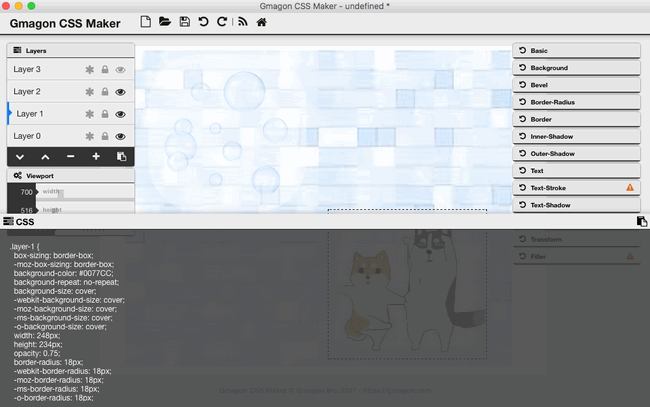
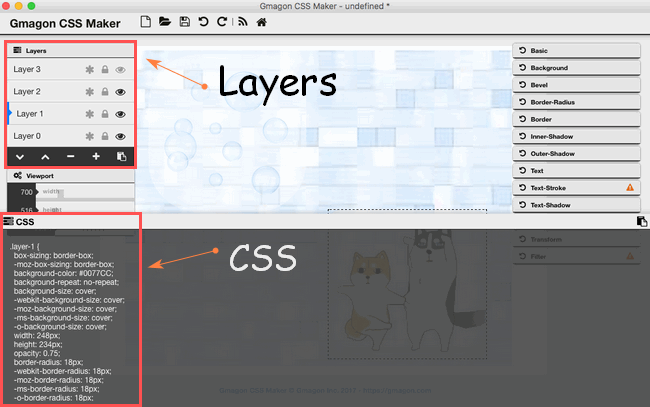
update

diff --git a/source/guide/gmagoncssmaker/tutorial/multi-layer.md b/source/guide/gmagoncssmaker/tutorial/multi-layer.md
@@ -1,10 +1,27 @@
 layout: guide
 title: CSS-Multi-layers 
-keywords: multilayer css, css layers, css multiple backgrounds, css layered backgrounds, css layer styles, css layer elements, css layer effects, css layer on top of another, css multi layer menu, css layer tutorial, css background tutorial
+keywords: multilayer css, css layers, css multiple backgrounds, css layered backgrounds, css layer styles, css layer elements, css layer effects, css layer on top of another, css multi layer menu, css layer tutorial, css background tutorial, 	add viewport css
 description: This CSS multi-layer elementary tutorial dedicate to helping beginners quickly to specify multiple background images for box elements using CSS on Mac. 
 ---
-In this tutorial, we will concentrate on adding styling text with CSS code-one of the most common things you'll do with CSS. With CSS, it is possible to work with layers: pieces of HTML that are placed on top of the regular page with pixel precision. With CSS3, you can apply multiple backgrounds to elements. These are layered atop one another with the first background you provide on top and the last background listed in the back. Only the last background can include a background color.
+In this tutorial, we will concentrate on adding multiple layers or backgrounds with CSS code. With CSS, it is possible to work with layers: pieces of HTML that are placed on top of the regular page with pixel precision. With CSS3, you can apply multiple backgrounds to elements. These are layered atop one another with the first background you provide on top and the last background listed in the back. Only the last background can include a background color.
+<br>
+## Browser Compatibility
+Browser support for multiple backgrounds is relatively widespread with all of the main browsers offering support, without the need for vendor prefixes.
+Firefox has supported multiple backgrounds since version 3.6 (Gecko 1.9.2), Safari since version 1.3, Chrome since version 10, Opera since version 10.50 (Presto 2.5) and Internet Explorer since version 9.0.
+<br>
+## Practical Use of Layers
+It's obvious that layers offer certain possibilities for precise positioning of static elements on your pages.
+In reality layers are often used in more dynamic ways:
 
+<table border="0" cellspacing="0" cellpadding="0" bgcolor="#000000" align="center"><tbody><td bgcolor="#B3C0DF"><table border="0" cellspacing="0" cellpadding="0" bgcolor="#FAFAFA" width="550"><tbody><td class="table5"><!-- perl mysql php web host --><span class="fancyfirst">
+<li>Flying elements/banners on the page</li>
+<li>Games where you move an object around</li>
+<li>Menus that pop out when triggered</li>
+<li>Menus that become visible when triggered</li></ul>
+</td></tr></tbody></table></td></tr></tbody></table>
+
+<br>
+## Multiple Backgrounds
 You can do this with both the shorthand background property and the individual properties thereof except for background-color. That is, the following background properties can be specified as a list, one per background: background, background-attachment, background-clip, background-image, background-origin, background-position, background-repeat, background-size.
 
 Specifying multiple backgrounds is easy:
@@ -12,5 +29,23 @@ Specifying multiple backgrounds is easy:
   <span class="token property">background</span><span class="token punctuation">:</span> background<span class="token number">1</span>, background <span class="token number">2</span>, <span class="token number">...</span>, backgroundN<span class="token punctuation">;</span>
 <span class="token punctuation">}</span><span class="line-numbers-rows"><span></span><span></span><span></span></span></code></pre>
 
+<br>
+
+**Example**
+In this example, three backgrounds are stacked: the full background of bricks, the image of dogs and the image of bubbles.
 
 ![](img/multi-layer.png)
+
+You can also get CSS code of every layers through: 
+
+![](img/multi-layer2.png)
+
+<br>
+<p><a href="https://gmagon.com/products/store/gmagon_css_maker/" target="_blank" class="button padding20">Try to make layers yourself</a></p>
+
+{% raw %}
+<link rel="stylesheet" href="./css/page.common.css">
+{% endraw %}
+
+
+Hopefully the above has given you an insight into the wonderful world of CSS multi-layers.

diff --git a/source/guide/gmagoncssmaker/tutorial/filter.md b/source/guide/gmagoncssmaker/tutorial/filter.md
@@ -1,6 +1,6 @@
 layout: guide
 title: CSS-Filter?  
-keywords: css filter property on mac, css filter effects generator on mac, css filter explorer on mac, css filter blur on mac, css filter grayscale on mac, css filter sepia on mac, css filter saturate on mac, css filter support on mac
+keywords: css filter property on mac, css filter effects generator on mac, css filter explorer on mac, css filter blur on mac, css filter grayscale on mac, css filter sepia on mac, css filter saturate on mac, css filter support on mac, css filter tutorial
 description: This is the best tool dedicated to helping web authors quickly achieve varying visual effects with CSS code on Mac. 
 ---
 
@@ -60,5 +60,7 @@ This filter can help your content looks semi-transparent. The 100% value is comp
 {% endraw %}
 
 
-Hope this article will solve your problems and make your life more convenient than ever. We'd like to receive and answer any question from you, if you are willing to communicate with us, you can join in <a href="https://gitter.im/Gmagon/support" target="_blank"> <strong>Support Center</strong> </a> to enter our community. 
+Hopefully the above has given you an insight into the wonderful world of CSS filter. We'd like to receive and answer any question from you, if you are willing to communicate with us, you can join in <a href="https://gitter.im/Gmagon/support" target="_blank"> <strong>Support Center</strong> </a> to enter our community.
+ 
+In the next page, we will start to explore [CSS-Multilayers](./multi-layer.html).
 

diff --git a/source/guide/gmagoncssmaker/tutorial/transform.md b/source/guide/gmagoncssmaker/tutorial/transform.md
@@ -4,7 +4,7 @@ keywords: css transform, css transform property, css transform scale, css transf
 description: What is CSS transform? How does it works? This CSS transform elementary tutorial dedicate to helping beginners quickly make various transformation effects using CSS on Mac. 
 ---
 In this tutorial journey of transformation, we will concentrate on transforming properties with CSS code. The CSS transform property allows you to visually manipulate an element by skewing, rotating, or scaling. Using it, elements can be translated, rotated, scaled, and skewed.
-<br>
+
 {% raw %}
 <h2 id="Browser_compatibility" class="highlight-spanned"><span class="highlight-span">Browser compatibility</span><a href="/en-US/docs/Web/CSS/transform$edit#Browser_compatibility" class="" rel="nofollow, noindex"><i aria-hidden="true" class="icon-pencil"></i><span></span></a></h2>
 <div class="htab">
@@ -108,4 +108,4 @@ SkewX and SkewY transform functions tilt an element one way or the other. Rememb
 {% endraw %}
 
 
-In the next page, we will start explore [CSS-Filter](./filter.html).
+In the next page, we will start to explore [CSS-Filter](./filter.html).

diff --git a/source/guide/gmagoncssmaker/tutorial/shadow.md b/source/guide/gmagoncssmaker/tutorial/shadow.md
@@ -59,5 +59,9 @@ We will leave the detail of the Text-shadow part to the next page of [CSS Text](
 <link rel="stylesheet" href="./css/page.common.css">
 {% endraw %}
 
+Hopefully the above has given you an insight into the wonderful world of CSS shadows.
+
+In the next page, we will start to explore [CSS-Text](./text.html).
+
 
 

diff --git a/source/guide/gmagoncssmaker/tutorial/text.md b/source/guide/gmagoncssmaker/tutorial/text.md
@@ -60,4 +60,4 @@ Bevels are shading and artificial shadows that emulate the appearance of a 3-dim
 <link rel="stylesheet" href="./css/page.common.css">
 {% endraw %}
 
-In the next page, we will start explore [CSS-Transform](./transform.html).
+In the next page, we will start to explore [CSS-Transform](./transform.html).

diff --git a/source/guide/gmagoncssmaker/tutorial/index.md b/source/guide/gmagoncssmaker/tutorial/index.md
@@ -28,5 +28,5 @@ description: This is the best solution dedicated to helping beginners quickly in
 1. [Transform](./transform.html)
 1. [Filter](./filter.html) 
 1. [Multi-Layer](./multi-layer.html) 
-1. Viewport 
+
 
